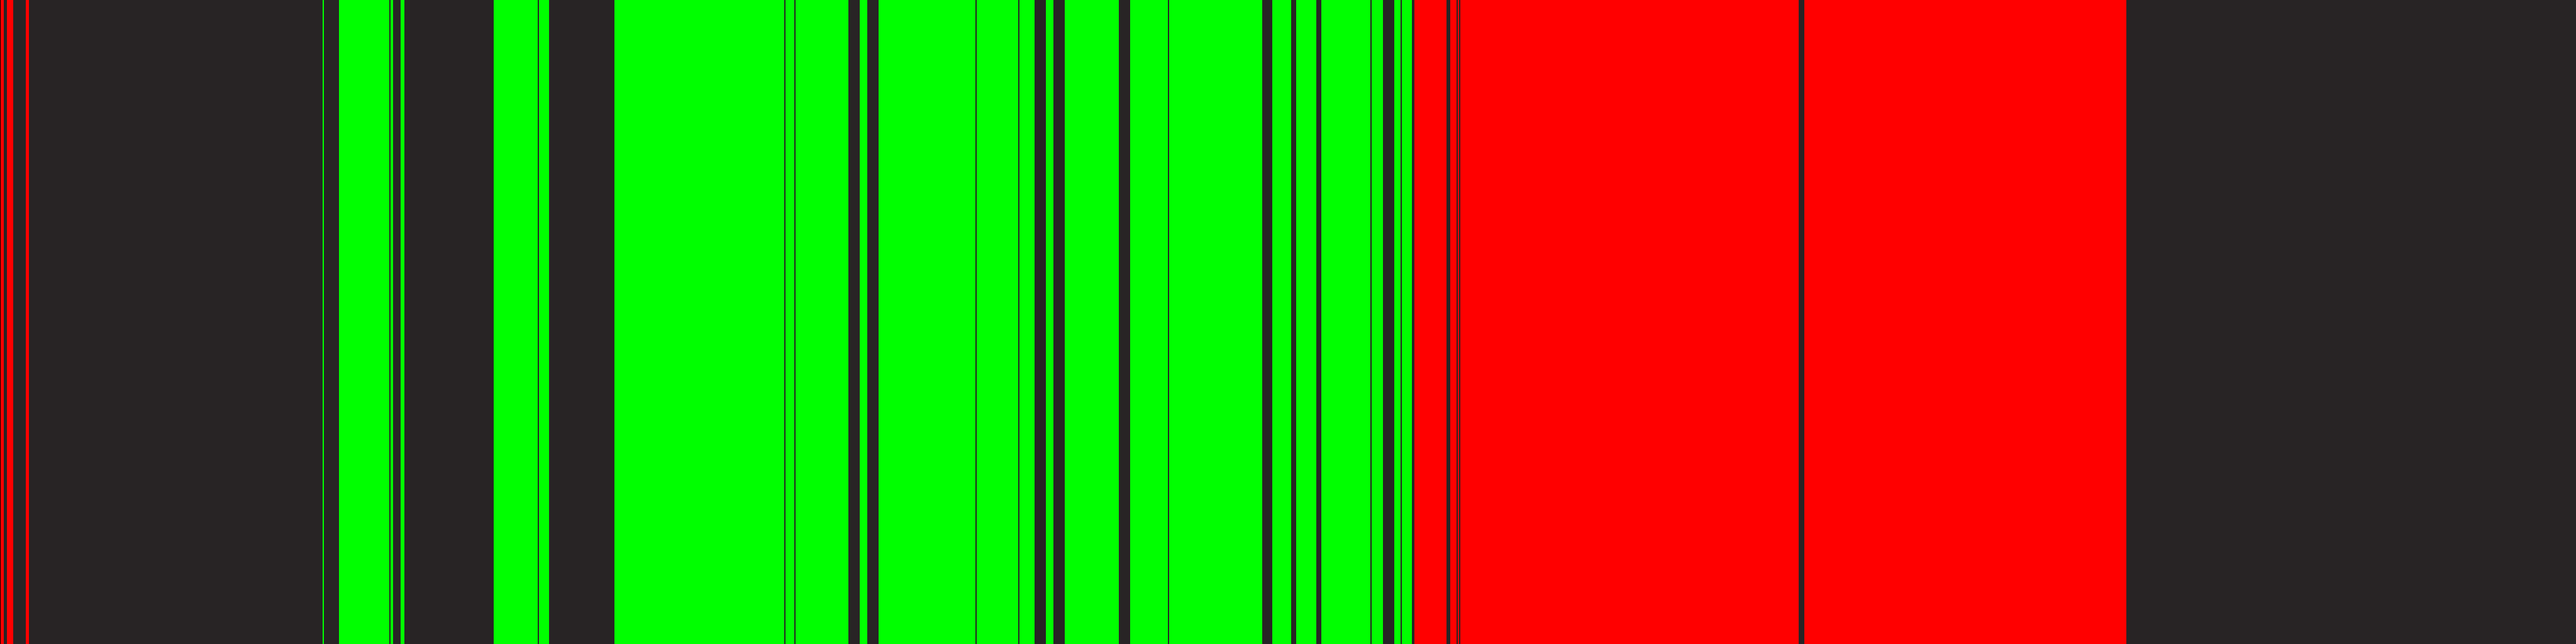
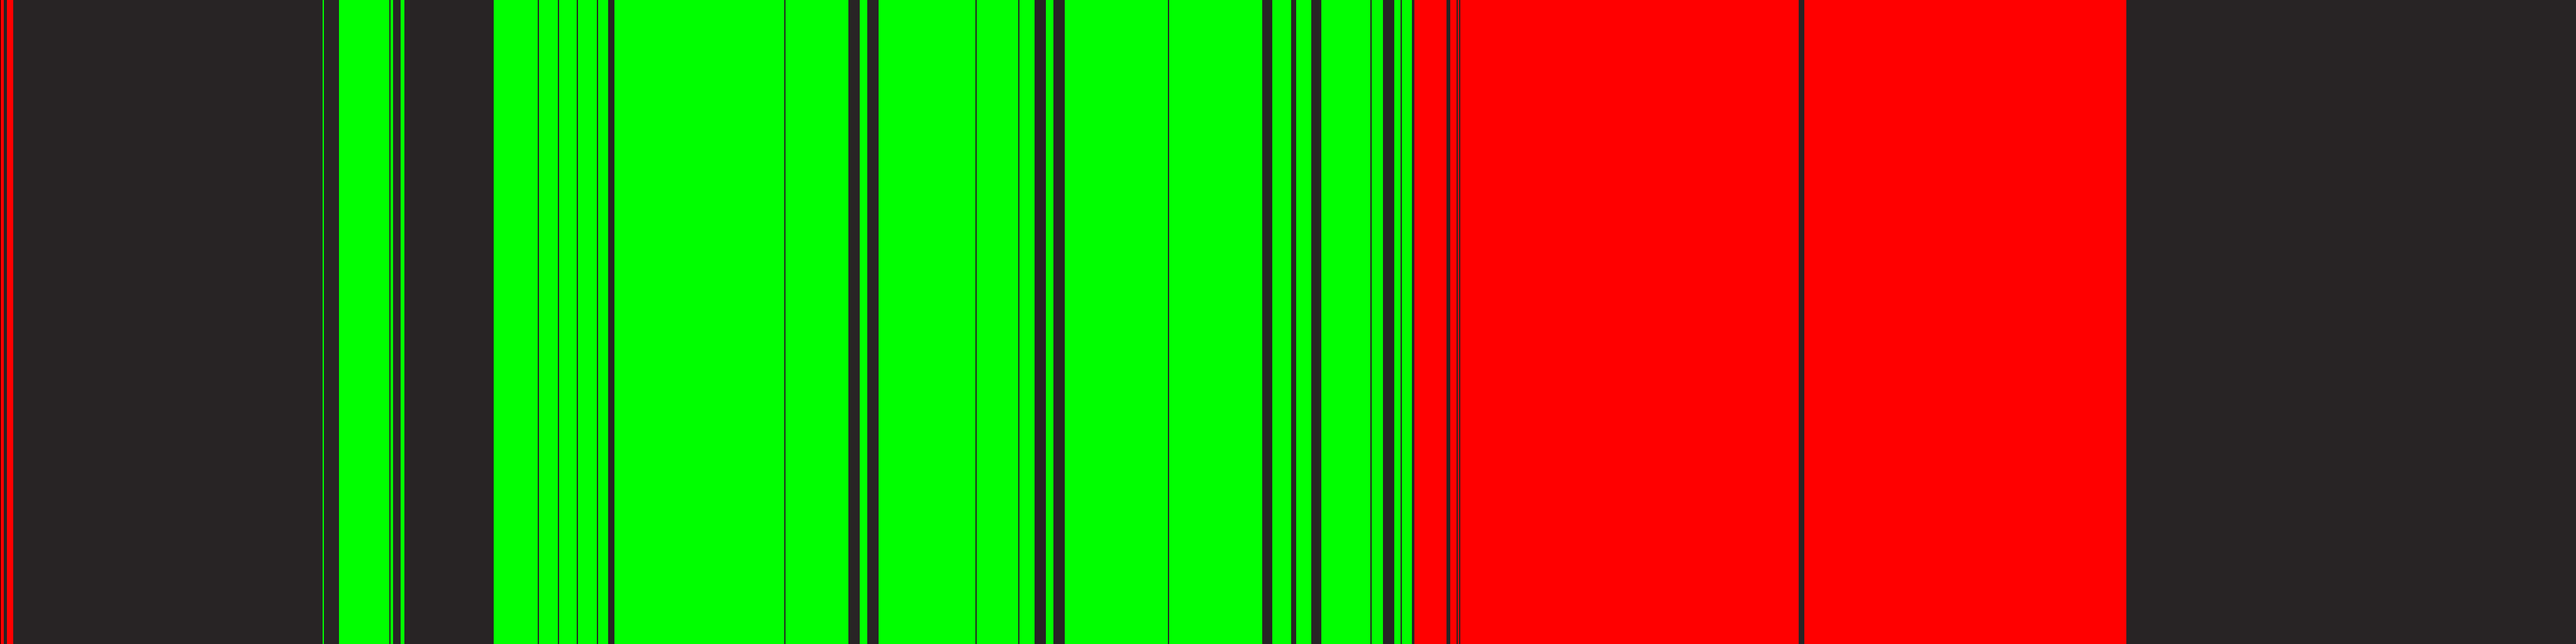
Added function trace script.

Changed region(s): [[0.1875, 0.0, 0.25, 1.0], [0.4062, 0.0, 0.4375, 1.0]]

diff --git a/C8Emu2012/display.h b/C8Emu2012/display.h
@@ -124,6 +124,29 @@ public:
 					 }
 					 break;
 
+                 case SDLK_0:
+					 if (e.type == SDL_KEYDOWN)
+					 {
+						 std::ofstream file1;
+						 file1.open(NAME + "_MemoryTrace.txt");
+						 std::stringstream stream1;
+						 for (Usage u : MEMORY_USAGE) {
+							 stream1 << u << "\n";
+						 }
+						 file1 << stream1.str();
+						 file1.close();
+                         std::ofstream file2;
+						 file2.open(NAME + "_FunctionTrace.txt");
+						 std::stringstream stream2;
+						 for (unsigned short u : FUNCTION_USAGE_AMT) {
+							 stream2 << u << "\n";
+						 }
+						 file2 << stream2.str();
+						 file2.close();
+						 quit = true;
+					 }
+					 break;
+            
 				 case SDLK_1:
 					 if (e.type == SDL_KEYDOWN)
 					 {

diff --git a/MemoryTraces/makefuncimage.py b/MemoryTraces/makefuncimage.py
@@ -1,0 +1,26 @@
+from PIL import Image
+import sys
+
+img = Image.new('RGB', (4096, 1024))
+p = img.load()
+
+with open(sys.argv[1]) as f:
+    i = 0
+    alert = False
+    for l in f:
+        n = int(l)
+        i = i+1
+        if n == 0:
+            for j in range (1024):
+                p[i,j] = (40,36,37)
+        elif n < 5:
+            for j in range (1024):
+                p[i,j] = (0+(n-1)*63,255-(n-1)*63,255)
+        elif n >=5:
+            for j in range (1024):
+                p[i,j] = (252,3,255)
+        if i == 4095: break
+if alert:
+    img.save(sys.argv[1] + "ALERT.png", "PNG")
+else:
+    img.save(sys.argv[1] + ".png", "PNG")

diff --git a/MemoryTraces/makememimage.py b/MemoryTraces/makememimage.py
@@ -13,13 +13,13 @@ with open(sys.argv[1]) as f:
         if n == 0:
             for j in range (1024):
                 p[i,j] = (40,36,37)
-        if n == 1:
+        elif n == 1:
             for j in range (1024):
                 p[i,j] = (255,0,0)
-        if n == 2:
+        elif n == 2:
             for j in range (1024):
                 p[i,j] = (0,255,0)
-        if n == 3:
+        elif n == 3:
             alert = True
             for j in range (1024):
                 p[i,j] = (0,0,255)

diff --git a/C8Emu2012/opcmd.cpp b/C8Emu2012/opcmd.cpp
@@ -382,6 +382,7 @@ bool OLD_KEYS[16];
 			if (FUNCTION_PCS[SP] != 0) {
 				if (FUNCTION_PC_HEADER[PC] != FUNCTION_PCS[SP]) {
 					FUNCTION_USAGE_AMT[PC]++;
+                    FUNCTION_USAGE_AMT[PC+1]++;
 				}
 				FUNCTION_PC_HEADER[PC] = FUNCTION_PCS[SP];
 			}
